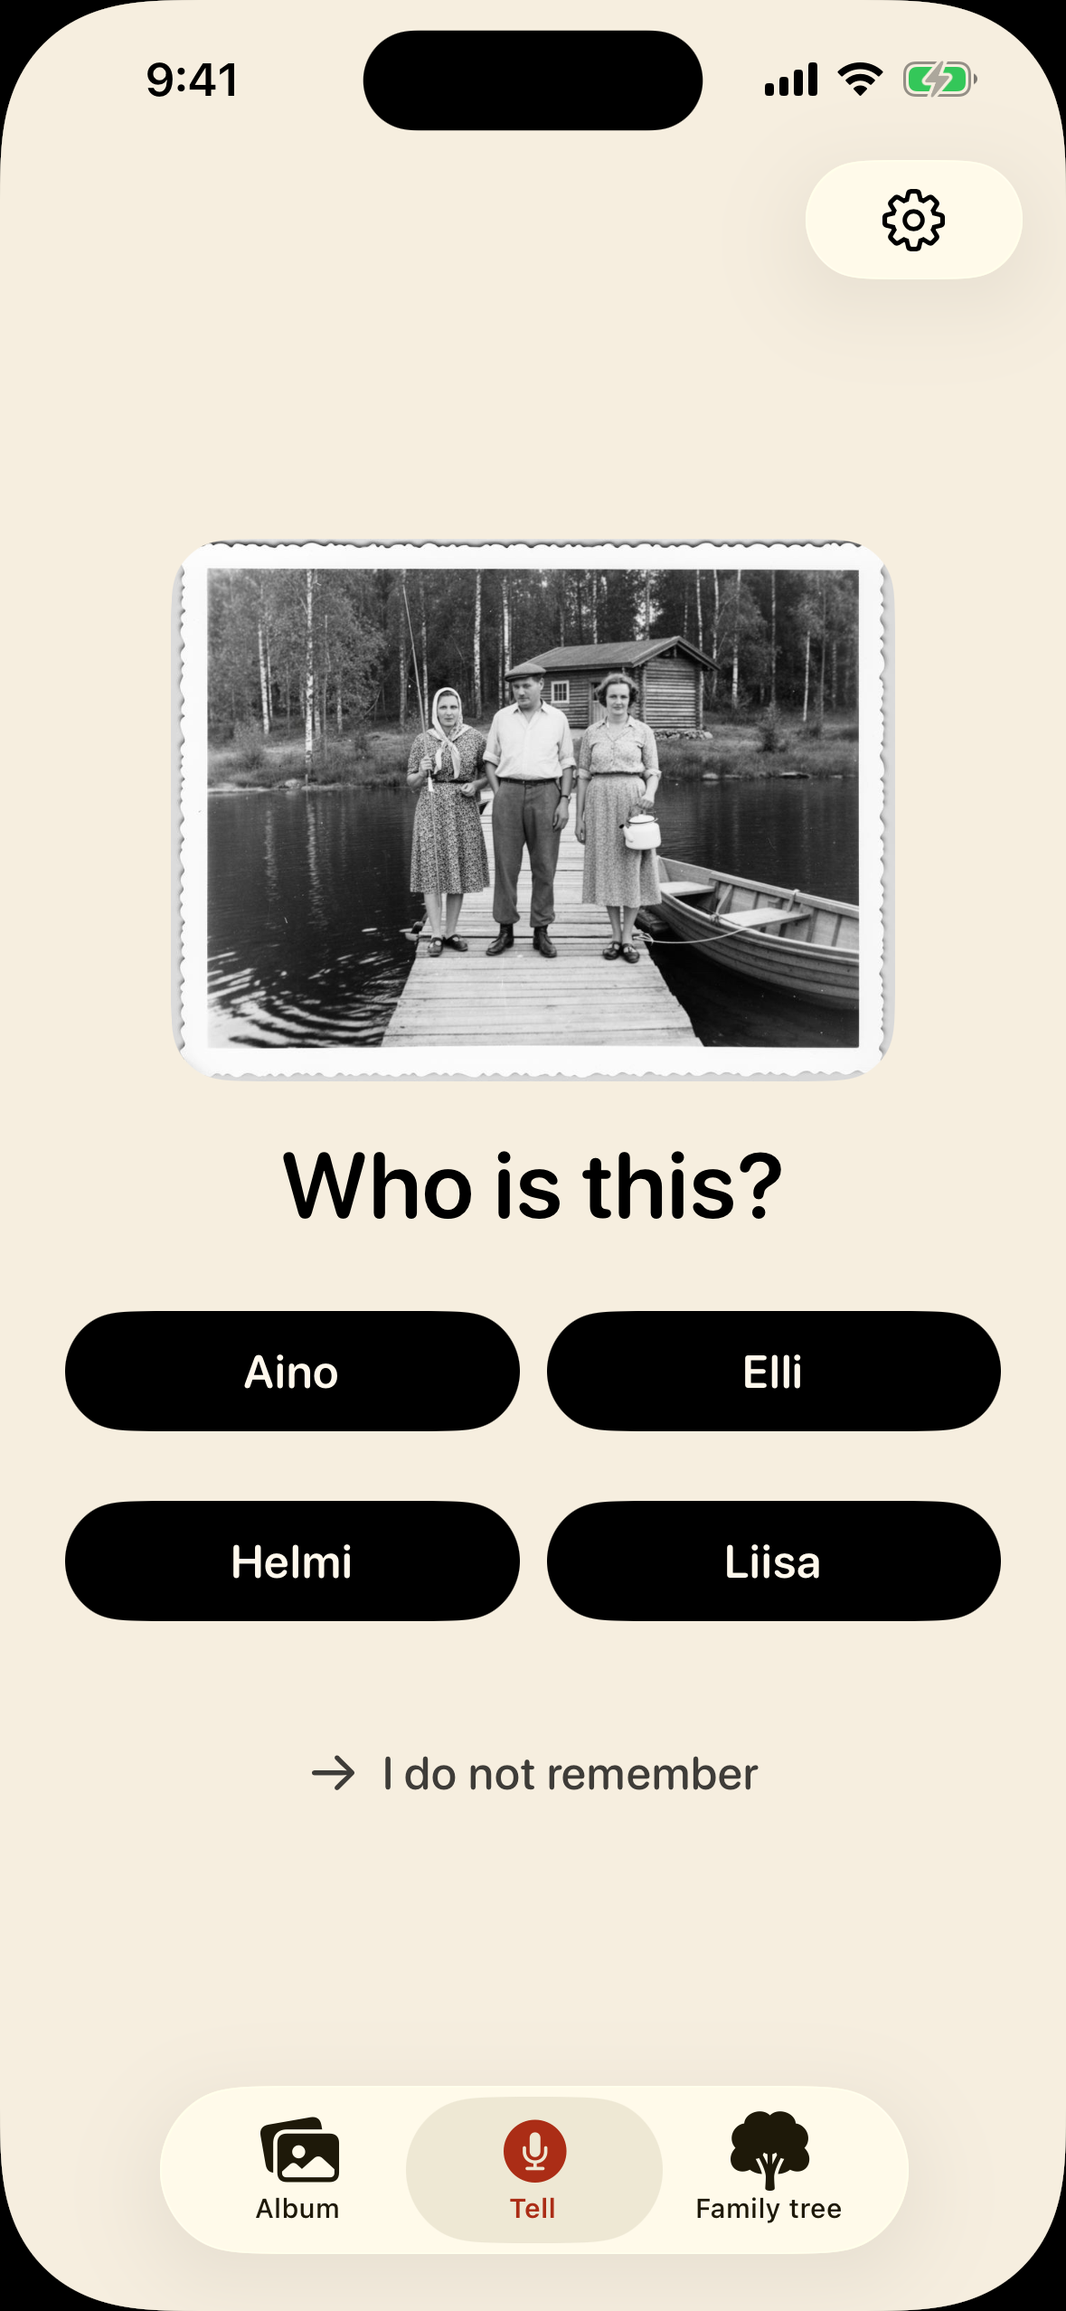
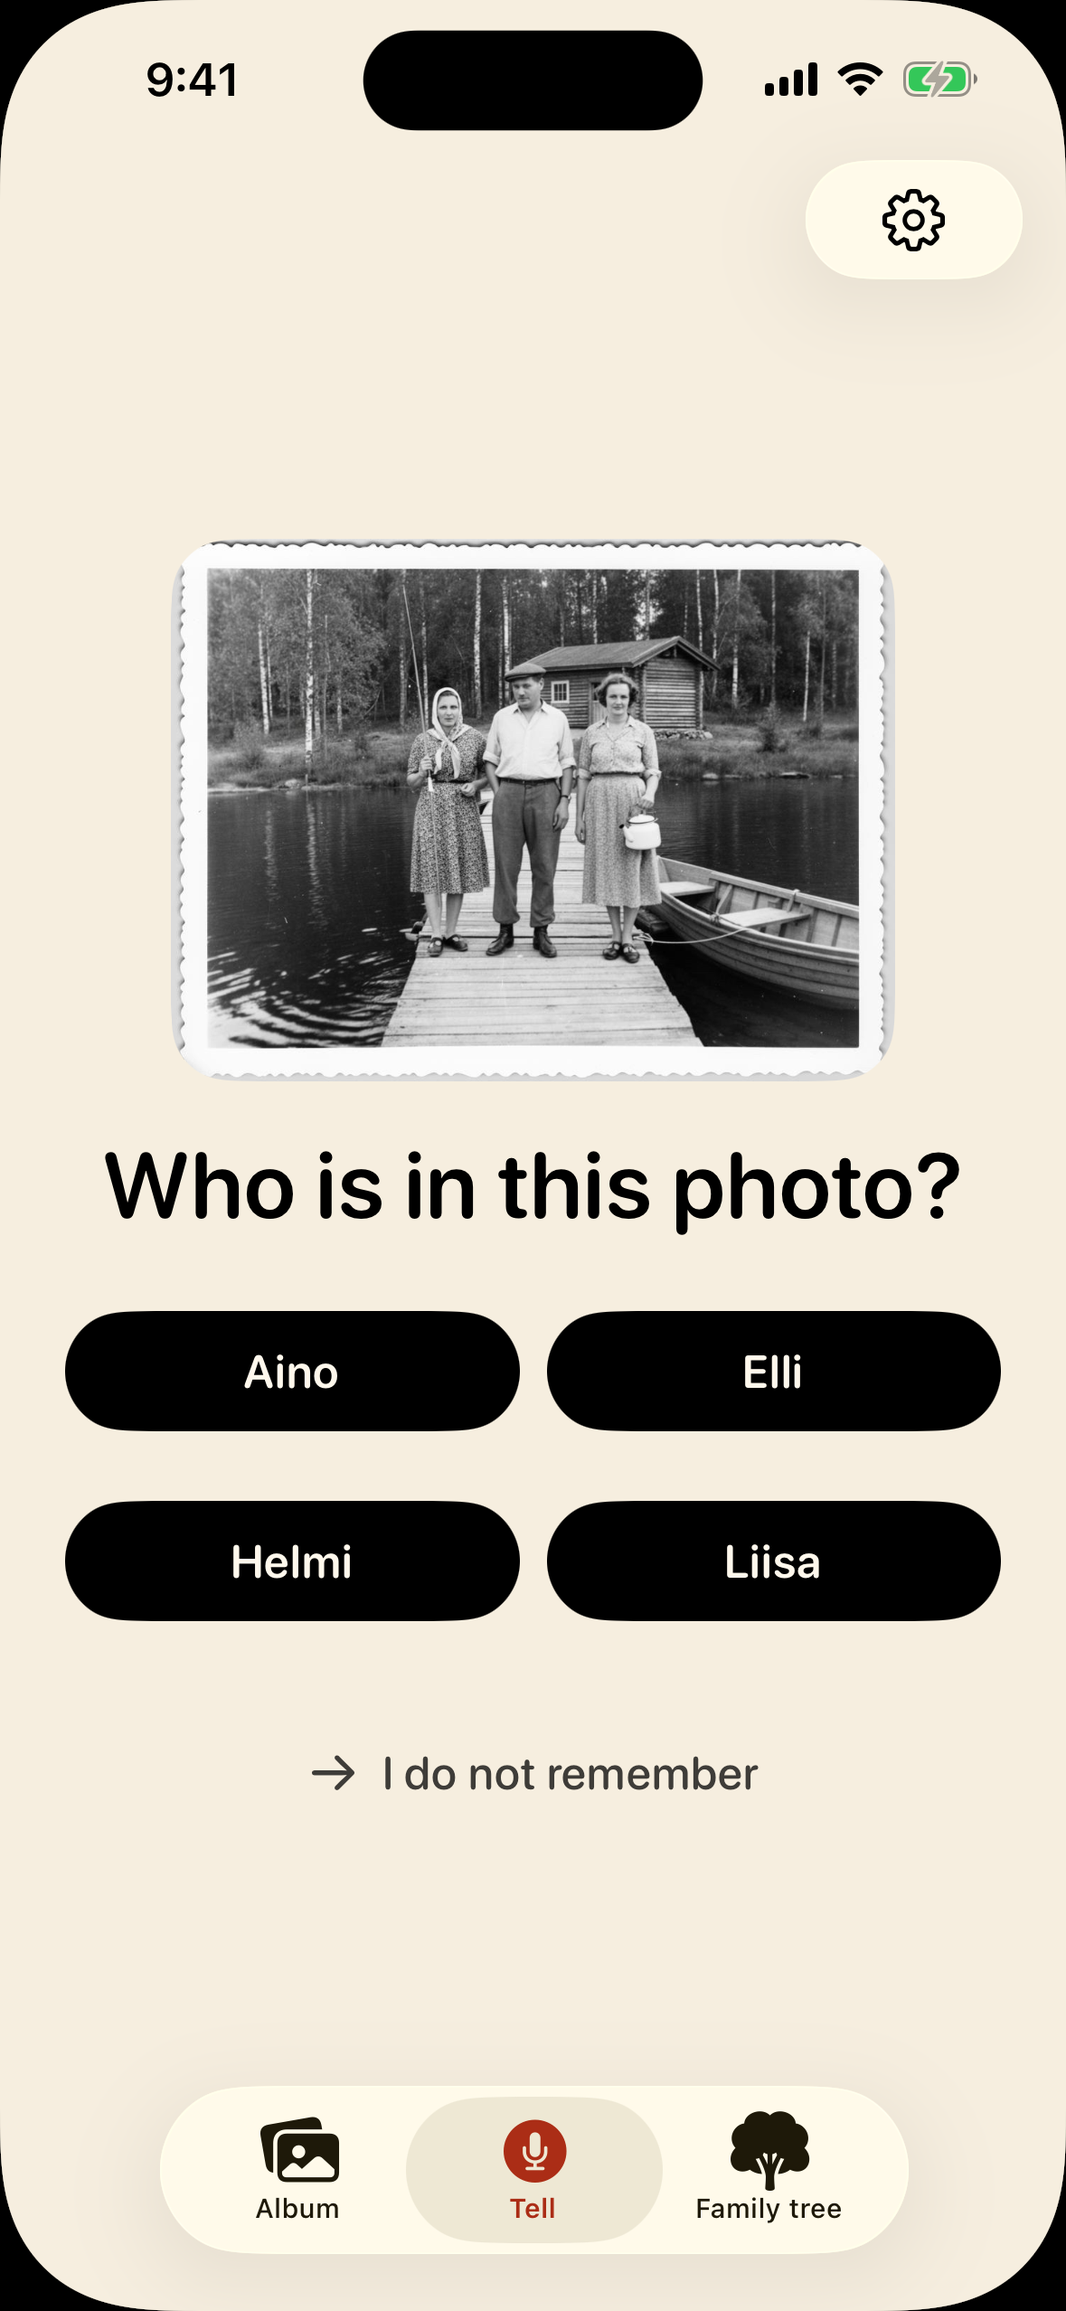
Ask "Who is in this photo?" on the blind card
The English card asked "Who is this?" over a photograph of three
people, which reads as a question about one of them that the card never
says. The Finnish key, "Kuka tässä on?", already reads as "who is in
this one", so only en.lproj changes, and the Finnish tests and sweeps
are untouched.

The README, DETAILS, SETUP and CLAUDE.md quote the new question, the
film driver looks for it, and picture 3 is retaken with it.

Changed region(s): [[0.0916, 0.4945, 0.916, 0.5254]]

diff --git a/scripts/blind-card-check.swift b/scripts/blind-card-check.swift
@@ -1,13 +1,13 @@
 // Checks which names the blind card deals beside the proposal, and where the
 // answer sits among them.
 //
-// The card (`BlindConfirmation`) asks "Who is this?" over the proposal and
-// three confirmed people, the proposal unmarked among them. Until 29 Sep 2026
-// the three were the archive's three newest confirmed people on every card,
-// so in `-seed large`, sixty people and five proposals, the one name that
-// changed from card to card was the answer, and two cards gave it away. No
-// seed, test or picture showed it, because each of them has exactly three
-// people to choose from, and three leave nothing to choose.
+// The card (`BlindConfirmation`) asks "Who is in this photo?" over the
+// proposal and three confirmed people, the proposal unmarked among them.
+// Until 29 Sep 2026 the three were the archive's three newest confirmed people
+// on every card, so in `-seed large`, sixty people and five proposals, the one
+// name that changed from card to card was the answer, and two cards gave it
+// away. No seed, test or picture showed it, because each of them has exactly
+// three people to choose from, and three leave nothing to choose.
 //
 // Every way of being wrong here is silent: each card on its own is a fair
 // question. So this deals many cards from one archive and counts how many

diff --git a/ios/KinloreUITests/FilmDriver.swift b/ios/KinloreUITests/FilmDriver.swift
@@ -271,7 +271,7 @@ final class FilmDriver: XCTestCase {
     /// is the whole scene without a word of argument.
     func testFilmTheBlindCard() throws {
         let app = try roll(["-seed", "film-family", "-tab", "tell"])
-        _ = try find(app.staticTexts, ["Who is this?", "Kuka tässä on?"], timeout: 30)
+        _ = try find(app.staticTexts, ["Who is in this photo?", "Kuka tässä on?"], timeout: 30)
         beat(6.5) // the picture, the question and the four names, read before anything is chosen
         try tap(app.buttons, [Self.filmOtherProposal])
         _ = try find(

diff --git a/README.md b/README.md
@@ -78,9 +78,9 @@ Its app shots are simulator recordings of the real app: the transcripts, the fol
 
 <p align="center"><sub>Simulator, stub pipeline: the telling and the model call are canned.</sub></p>
 
-| <a href="docs/media/01-tell.png"><img src="docs/media/mounted/01-tell.png" alt="The Tell screen: the heading Tell what you remember, the line Talk at your own pace, and speak up, a large red microphone button with Press and start talking under it, two questions to start from — Who is the oldest person you remember? and Where did you live as a child? — the links Write instead and Add a photograph, and the tabs Album, Tell and Family tree." width="300"></a> | <a href="docs/media/02-result.png"><img src="docs/media/mounted/02-result.png" alt="The result screen scrolled to I heard these, with the line Write the name again if I heard it wrong. Nobody joins the family without your approval. Below it Aino and Toivo, each marked Person, with the sentence the name was heard in and a cross and a tick beside it; then Familiar names, where Puumala stands with its sentence and an A different place button." width="300"></a> | <a href="docs/media/03-who-is-this.png"><img src="docs/media/mounted/03-who-is-this.png" alt="The blind card: a generated black-and-white photograph of two women and a man on a lakeside jetty, a rowing boat tied beside them and a log sauna behind, the question Who is this?, four names in identical black buttons — Aino, Elli, Helmi and Liisa — and I do not remember below them." width="300"></a> |
+| <a href="docs/media/01-tell.png"><img src="docs/media/mounted/01-tell.png" alt="The Tell screen: the heading Tell what you remember, the line Talk at your own pace, and speak up, a large red microphone button with Press and start talking under it, two questions to start from — Who is the oldest person you remember? and Where did you live as a child? — the links Write instead and Add a photograph, and the tabs Album, Tell and Family tree." width="300"></a> | <a href="docs/media/02-result.png"><img src="docs/media/mounted/02-result.png" alt="The result screen scrolled to I heard these, with the line Write the name again if I heard it wrong. Nobody joins the family without your approval. Below it Aino and Toivo, each marked Person, with the sentence the name was heard in and a cross and a tick beside it; then Familiar names, where Puumala stands with its sentence and an A different place button." width="300"></a> | <a href="docs/media/03-who-is-this.png"><img src="docs/media/mounted/03-who-is-this.png" alt="The blind card: a generated black-and-white photograph of two women and a man on a lakeside jetty, a rowing boat tied beside them and a log sauna behind, the question Who is in this photo?, four names in identical black buttons — Aino, Elli, Helmi and Liisa — and I do not remember below them." width="300"></a> |
 |---|---|---|
-| **Telling.** One button, a way to type instead, and two questions to start from. | **What comes back.** The two names it heard wait for a cross or a tick, each with the sentence it was heard in. | **Who is this?** The card asks *Who is this?* of a generated photograph over four names, nothing says which is the proposal, and *I do not remember* is offered too. |
+| **Telling.** One button, a way to type instead, and two questions to start from. | **What comes back.** The two names it heard wait for a cross or a tick, each with the sentence it was heard in. | **Who is in this photo?** The card asks it of a generated photograph over four names, nothing says which is the proposal, and *I do not remember* is offered too. |
 | <a href="docs/media/10-asks-back.png"><img src="docs/media/mounted/10-asks-back.png" alt="The follow-up question, read aloud: a speaker icon, the question Who is the little girl sitting on the jetty?, the line When the question ends, recording starts by itself. Tell your answer and press the big button when you are done., a large red microphone button with Press to answer right away under it, and That is enough for now." width="300"></a> | <a href="docs/media/11-story.png"><img src="docs/media/mounted/11-story.png" alt="A photograph's card scrolled to its story: the title Photograph and a red Tell a memory about this button, then the story — Grandma says that is Puumala at the jetty, Helmi and Toivo. It was the 1930s, and Grandma was small then. Grandma says that's Grandma, Grandma was four. Sanni writes that the little one at the end of the jetty is Grandma. Sanni has looked at this picture all Sanni's life and never thought to ask about it. — with Put together from 3 memories and Edit the story under it; the line The story is put together from the memories told: they are sent through the OpenRouter service to an AI when a new memory has been told. They are not used to train the AI.; a Show 3 memories button; and the tabs Album, Tell and Family tree." width="300"></a> | <a href="docs/media/12-colours.png"><img src="docs/media/mounted/12-colours.png" alt="The sheet Colours by the telling: a generated photograph in colour of a woman in a flowered dress and a man in a flat cap standing on a wooden jetty, a small girl in a red pinafore sitting at its edge, a rowing boat moored beside it and birches behind, with a palette badge in its corner; the question Does it look like this?, the line The colours are guessed from what was told about the photo. They are not kept unless you confirm., a red Yes, keep the colours button, and the buttons No, I will tell more and I do not know." width="300"></a> |
 | **It asks back.** The question the model asked after a telling about the jetty photograph, read aloud. When it ends, the app listens by itself. | **The story.** The model put three memories of one photograph into one story. The family can edit it, and the memories stay below it. | **Colours by the telling.** The model's colours for a generated photograph, guessed from what was told and kept only if someone confirms. |
 | <a href="docs/media/07-album.png"><img src="docs/media/mounted/07-album.png" alt="The Album: a map button, a plus button and a search button at the top, the heading Album, then 1930s with two generated black-and-white photographs — a man, a woman and a small girl on a lakeside jetty with a rowing boat, and a bride with a veil and a bouquet beside a groom in a dark suit — each card with a round G badge under the picture; then 1940s with one wide card, a woman in a cardigan and a flowered dress holding a bicycle on a gravel road, her face cut off by the top of the card; the heading 1950s half under the tab bar, and the tabs Album, Tell and Family tree." width="300"></a> | <a href="docs/media/13-map.png"><img src="docs/media/mounted/13-map.png" alt="The family's map opened on one place: a red pin near Oritsalo, the edge of a large circle drawn around the town of Puumala, whose red label stands at the left edge, and a card reading The Puumala cottage, The exact spot. Confirmed by Ritva., with the buttons Change the location and Show all places; a back button, the title Map and a globe button at the top; and the tabs Album, Tell and Family tree." width="300"></a> | <a href="docs/media/08-family-tree.png"><img src="docs/media/mounted/08-family-tree.png" alt="The Family tree tab of the invented example family: Elina, marked You, in the middle row between Mikko, Your spouse, and Jukka, Your sibling, each in a round picture cut from one of the example's drawn photographs; Matti, Your parent, above them with lines down to Elina and Jukka; Oskari and Aino, Your child, as initials below; more cards cut off at both edges; the buttons Whole family and You; a settings gear and a More button with a red dot at the top right; and the tabs Album, Tell and Family tree." width="300"></a> |
@@ -128,10 +128,10 @@ the oldest in the family.
   family tree until a person says yes (rule 4).
 - **Questions out loud.** It asks follow-up questions, listens to each answer
   and asks the next one, round after round, without a tap.
-- **Who is this?** Later it shows the photograph a name was heard in and asks
-  who it is, over three or four of the family's names with the proposal
-  unmarked among them. Any other answer confirms nothing and is never called
-  wrong
+- **Who is in this photo?** Later it shows the photograph a name was heard
+  in and asks who is in it, over three or four of the family's names with the
+  proposal unmarked among them. Any other answer confirms nothing and is never
+  called wrong
   ([ARCHITECTURE §23](docs/ARCHITECTURE.md#the-blind-confirmation-built-30-aug-2026)).
 - **One story per card.** The AI puts what the family told about a card into
   one story at the top of it. The model is told to keep to the tellers' own

diff --git a/docs/SETUP.md b/docs/SETUP.md
@@ -272,7 +272,7 @@ xcrun simctl launch <device> com.kinlore.app -tab people -screen person
 | `-homecoming off` / `-homecoming unauthorized` | DEBUG | Since 26 Sep 2026 a phone with no family id asks the server whether the identity already in its Keychain is a member, before it offers the fork (`Session.lookForFamily`, docs/UX.md §4.5) — only with an `-api` address, and never about an identity the launch itself made. `off` leaves the question unasked, so the fork is drawn at once: the simulator's Keychain keeps an identity from one test to the next, which a phone out of the box does not, and the UI tests' launch helper passes `off` unless a test names `-homecoming` itself (`AccessibilityAudit.launch`). `unauthorized` answers the question with the server's own no — `{"error":"unauthorized"}`, read through `FamilyError.forStatus` as the real reply is — without a request, and the fork opens. Any other value asks as usual, which is what `ReturningPhoneTests` passes `ask` for. |
 | `-seed deck` | DEBUG | The archive plus one photograph nobody has spoken about, which is what the card on the Tell tab (*Kerro*) is drawn from. The plain archive has none on purpose — a card on the idle screen would change what every other test is looking at. |
 | `-seed years` | DEBUG | `-seed dated` — the fixture's photograph dated to the fifties as *Mökin ranta*, and the deck's three nobody has dated — plus three photographs dated to a year each as the date sheet writes one: *Kastejuhla* 1998, *Lakkiaiset* 2003 and *Häät* 2015. The album of the search that reads a year (ARCHITECTURE §8 item 12): "2000" finds the second and third and never the first. `SearchTests` walks it. |
-| `-seed blind` | DEBUG | The archive with a **file on its photograph**, which is what the blind confirmation is drawn from: the fixture already had an unconfirmed person whose name was heard in a telling about `demo-photo`, and the only thing missing was a face to put in front of somebody. The picture is also the guard — `BlindConfirmation` builds no card without one, because *"Who is this?"* (*"Kuka tässä on?"*) over a grey placeholder asks nothing — which is why the plain archive is untouched by the feature. |
+| `-seed blind` | DEBUG | The archive with a **file on its photograph**, which is what the blind confirmation is drawn from: the fixture already had an unconfirmed person whose name was heard in a telling about `demo-photo`, and the only thing missing was a face to put in front of somebody. The picture is also the guard — `BlindConfirmation` builds no card without one, because *"Who is in this photo?"* (*"Kuka tässä on?"*) over a grey placeholder asks nothing — which is why the plain archive is untouched by the feature. |
 | `-seed faces` | DEBUG | The archive with the same file on its photograph and a **face already chosen from it** on Kalle's card (ARCHITECTURE §25): his disc on the people list, his card and the tree is cut from the picture rather than drawn as his initial, and Eeva's card is where a test chooses one. The spot is the top of the dark shape the generated photograph carries, which is the nearest thing it has to a head. |
 | `-library stub` | DEBUG | Answers *"Choose from the phone's photos"* (*"Valitse puhelimen kuvista"*) on the face picker with a generated picture instead of the system photo picker, which a test run cannot drive — the same picture `-seed deck` writes its photograph from (`MemoryStore.demoPhotoData`). Everything from the bytes onward is the real path: `MemoryStore.addPhotograph`, the spot on `FaceFocusScreen`, and an ordinary photograph in Album (*Albumi*) afterwards. `FaceTests` walks it with `-seed faces`; see ARCHITECTURE §25. It answers the album's *"Choose from photos"* (*"Valitse kuvista"*) with one such picture too (`GalleryScreen.pickFromLibrary`; `ImportTests`). |
 | `-seed unseen` | DEBUG | The demo archive plus an empty seen-baseline, so every telling by the fixture's Mummo is one this phone has not seen: the *"New from the family"* (*"Uutta perheeltä"*) section, and the Album (*Albumi*) landing that follows from it. A real one needs a second device to have told something between two visits. Also the one seed carrying an open question from another member (*"Mummo asks"*, *"Mummo kysyy"*) — the demo video's return scene answers it aloud; see docs/VIDEO.md. |

diff --git a/docs/DETAILS.md b/docs/DETAILS.md
@@ -116,16 +116,16 @@ The other four, and the full text, are in [CLAUDE.md](../CLAUDE.md#rules-that-do
 
    The strongest confirmation is a blind one. When a name was heard in a
    telling about a photograph, the app later shows that photograph and asks
-   *Who is this?* over three or four of the family's names, the proposal
-   unmarked among them — so choosing it is recognising the person, not agreeing
-   with a name already on the screen. Any other answer (another name, or *I do
-   not remember*) confirms nothing and is never called wrong: the app does not
-   know who is in the picture either. Nothing on that screen names the
-   proposal, not even the photograph's VoiceOver label, and
+   *Who is in this photo?* over three or four of the family's names, the
+   proposal unmarked among them — so choosing it is recognising the person,
+   not agreeing with a name already on the screen. Any other answer (another
+   name, or *I do not remember*) confirms nothing and is never called wrong:
+   the app does not know who is in the picture either. Nothing on that screen
+   names the proposal, not even the photograph's VoiceOver label, and
    `BlindConfirmationTests` checks every text, button and image on it
    ([`ARCHITECTURE.md` §23](ARCHITECTURE.md#the-blind-confirmation-built-30-aug-2026)).
 
-   <p align="center"><img src="media/03-who-is-this.png" alt="The blind card: a generated black-and-white photograph of two women and a man on a lakeside jetty, a rowing boat tied beside them and a log sauna behind, the question Who is this?, four names in identical black buttons — Aino, Elli, Helmi and Liisa — and I do not remember below them." width="300"></p>
+   <p align="center"><img src="media/03-who-is-this.png" alt="The blind card: a generated black-and-white photograph of two women and a man on a lakeside jetty, a rowing boat tied beside them and a log sauna behind, the question Who is in this photo?, four names in identical black buttons — Aino, Elli, Helmi and Liisa — and I do not remember below them." width="300"></p>
    <p align="center"><sub>Simulator, <code>-seed film</code> — the photograph is generated for the shot, and nobody in it exists.<br>One of the four names is the proposal, and nothing on the screen says which.</sub></p>
 
 5. **Uncertainty is stored, not rounded.** "Sometime in the fifties" goes into

diff --git a/CLAUDE.md b/CLAUDE.md
@@ -95,10 +95,10 @@ on this. Schema: [backend/schema.sql](backend/schema.sql).
    it gets tapped "yes" without being read. The blind card
    (`BlindConfirmation`, `BlindCardView`,
    [ARCHITECTURE §23](docs/ARCHITECTURE.md#the-blind-confirmation-built-30-aug-2026))
-   shows the photograph a name was heard in and asks *Who is this?* (*Kuka
-   tässä on?*) over three or four names, the proposal unmarked among them. It
-   sits on the Tell tab (*Kerro*) of a reader's phone and on the Album tab
-   (*Albumi*) of a grandparent's. A wrong answer is never called wrong,
+   shows the photograph a name was heard in and asks *Who is in this photo?*
+   (*Kuka tässä on?*) over three or four names, the proposal unmarked among
+   them. It sits on the Tell tab (*Kerro*) of a reader's phone and on the Album
+   tab (*Albumi*) of a grandparent's. A wrong answer is never called wrong,
    because the app does not know who is in the photograph either. Nothing on
    the screen may name the proposal, the photograph's accessibility label
    included; a card that leaks looks like one that works, so
